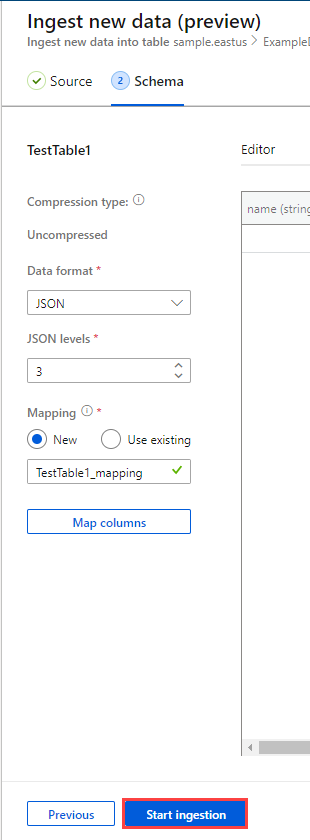
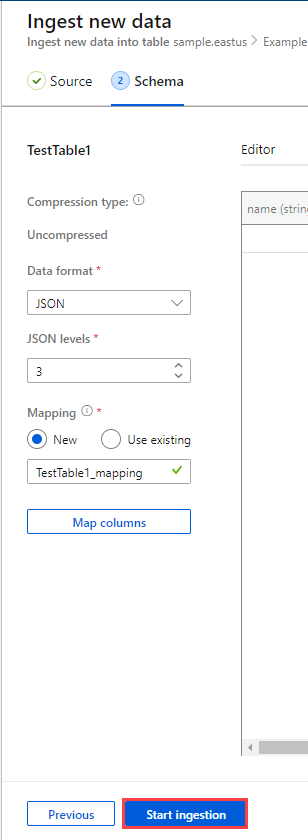
edits

diff --git a/data-explorer/one-click-ingestion-new-table.md b/data-explorer/one-click-ingestion-new-table.md
@@ -24,11 +24,11 @@ For information about ingesting data into an existing table in Azure Data Explor
 
 ## Ingest new data
 
-1. In the left menu of the Web UI, right-click a *database* and select **Ingest new data (Preview)**.
+1. In the left menu of the Web UI, right-click a *database* and select **Ingest new data**.
 
     :::image type="content" source="media/one-click-ingestion-new-table/one-click-ingestion-in-web-ui.png" alt-text="Ingest new data":::
 
-1. In the **Ingest new data (Preview)** window, the **Source** tab is selected. 
+1. In the **Ingest new data** window, the **Source** tab is selected. 
 
 1. Select **Create new table** and enter a name for the new table. You can use alphanumeric, hyphens, and underscores. Special characters aren't supported.
 
